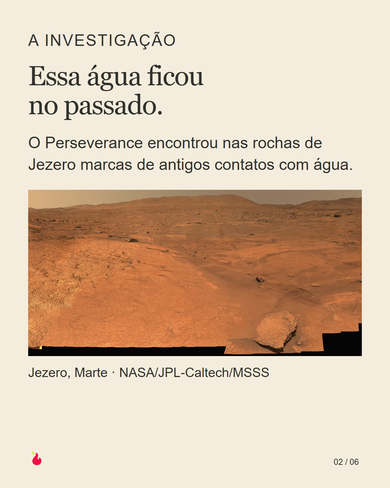
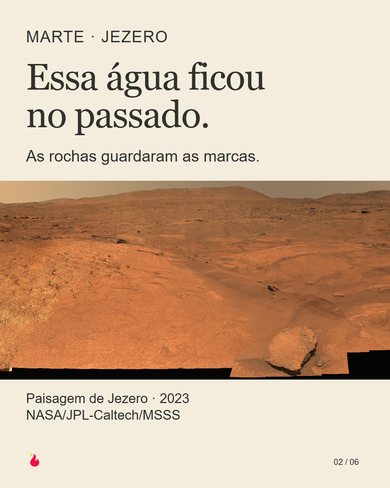
Refine editorial composition with distinct image and text functions

diff --git a/growth/cycles/031-mars/editorial.css b/growth/cycles/031-mars/editorial.css
@@ -1,0 +1,3 @@
+@import url(style.css);.slide{padding:72px 72px}.slide h2{font-size:92px;line-height:1.02}.eyebrow{font-size:30px;letter-spacing:2px;margin-bottom:32px}.foot{left:72px;right:72px;bottom:44px}.credit{font-size:30px!important;line-height:1.25!important}.photo{display:block;object-fit:cover}.document h2{font-size:102px}.document .landscape{position:absolute;left:0;top:410px;width:1080px;height:660px;object-fit:cover}.document .intro{max-width:850px}.document .caption{position:absolute;top:1110px;left:72px;width:930px}.trace{position:absolute;top:390px;left:90px;width:80px;height:645px}.step{position:absolute;left:210px;right:72px}.step .seq{font-size:32px;letter-spacing:2px;color:#BE1035}.step p{font:54px/1.15 Georgia;margin:10px 0}.step1{top:440px}.step2{top:655px}.step3{top:870px}.past .limit{position:absolute;top:1100px;left:72px;width:930px;font-size:42px}.cinema{background:#22211e;color:#f4edde}.cinema .hero{position:absolute;top:0;left:0;width:1080px;height:790px;object-fit:cover;object-position:65% center}.cinema .textzone{position:absolute;top:805px;left:72px;right:72px}.cinema h2{font-size:83px}.cinema p{font-size:42px}.archive .photo{width:936px;height:580px;margin-top:32px;object-fit:cover}.archive h2{font-size:90px}.archive .bottom{display:grid;grid-template-columns:1fr 1fr;gap:45px;margin-top:30px}.archive .bottom p{font-size:39px}.closing .image{position:absolute;left:0;top:730px;width:1080px;height:620px;object-fit:cover;object-position:center 82%}.closing h2{font-size:106px;max-width:940px}.closing .invitation{font-size:53px;line-height:1.15;max-width:850px;margin-top:45px}.closing .action{font-size:43px}.closing .foot{color:#f4edde}.closing{background:#f4edde}.cover .foot{color:#f4edde}.document .landscape{top:500px;height:550px}.document .caption{top:1080px}.cinema .hero{height:730px}.cinema .textzone{top:750px}
+
+.credit{font-size:37px!important}.closing .foot{top:660px;bottom:auto;color:#30302d}.concept-label{position:absolute;top:660px;left:72px;background:#22211e;color:#f4edde;padding:10px 18px;font-size:37px!important}.cinema .textzone{top:750px}

diff --git a/growth/cycles/031-mars/slide-05.html b/growth/cycles/031-mars/slide-05.html
@@ -1,1 +1,1 @@
-<!doctype html><html lang="pt-BR"><meta charset="utf-8"><title>Marte e batatas · 5</title><link rel="stylesheet" href="style.css"><main class="slide dark"><p class="eyebrow">Uma escala na Terra</p><h2>As batatas já<br>passaram pela NASA.</h2><p>Nos anos 1990, a NASA testou batatas em hidroponia.</p><svg class="diagram" viewBox="0 0 924 460" role="img" aria-label="Esquema de bandejas com batatas e circulação de solução nutritiva"><path d="M140 90H770M185 110V325H730V110" fill="none" stroke="#f4edde" stroke-width="7"/><path d="M186 278H730" stroke="#D7E25B" stroke-width="11"/><ellipse cx="355" cy="250" rx="70" ry="42" fill="#b78355"/><ellipse cx="550" cy="250" rx="65" ry="42" fill="#b78355"/><path d="M355 210V140m0 22q-80-60-30-74q52 9 30 74m195 48V140m0 22q65-65 28-76q-48 2-28 76" fill="#D7E25B" stroke="#D7E25B" stroke-width="6"/><path d="M730 325V382H185V325" fill="none" stroke="#D7E25B" stroke-width="5"/><path d="m400 370 22 12-22 12" stroke="#D7E25B" fill="none" stroke-width="5"/></svg><p class="small">Na Terra. A pesquisa até chamou a atenção da Frito-Lay.</p><p class="source">Fonte: NASA, arquivo de 2016.</p><footer class="foot"><img src="assets/flame.png" alt="Cereja Flamejante"><span>05 / 06</span></footer></main></html>
+<!doctype html><html lang="pt-BR"><meta charset="utf-8"><title>Marte e batatas · 5</title><link rel="stylesheet" href="editorial.css"><main class="slide archive"><p class="eyebrow">Arquivo · NASA · 1992</p><h2>A horta real<br>ficava na Terra.</h2><img class="photo" src="assets/nasa-potatoes-1992.jpg" alt="Cultivo real de batatas Norland na câmara de produção de biomassa da NASA"><div class="bottom"><p>Batatas cultivadas<br>em hidroponia.</p><p>A pesquisa até<br>interessou à Frito-Lay.</p></div><p class="credit">Foto: NASA · relato publicado em 2016</p><footer class="foot"><img src="assets/flame.png" alt="Cereja Flamejante"><span>05 / 06</span></footer></main></html>

diff --git a/growth/cycles/031-mars/slide-03.html b/growth/cycles/031-mars/slide-03.html
@@ -1,1 +1,1 @@
-<!doctype html><html lang="pt-BR"><meta charset="utf-8"><title>Marte e batatas · 3</title><link rel="stylesheet" href="style.css"><main class="slide "><p class="eyebrow">O que apareceu</p><h2>A água passou por ali.</h2><div class="big">3<span style="font:40px Arial"> vezes, pelo menos</span></div><div class="row"><span class="num">01</span><p>Água subterrânea deixou minerais.</p></div><div class="row"><span class="num">02</span><p>Outro contato pode vir do antigo lago.</p></div><div class="row"><span class="num">03</span><p>Depois, há sinais de água quente.</p></div><p class="small line">Sabemos a ordem. As datas ainda faltam.</p><footer class="foot"><img src="assets/flame.png" alt="Cereja Flamejante"><span>03 / 06</span></footer></main></html>
+<!doctype html><html lang="pt-BR"><meta charset="utf-8"><title>Marte e batatas · 3</title><link rel="stylesheet" href="editorial.css"><main class="slide past"><p class="eyebrow">O que as rochas contam</p><h2>Água por aqui.<br>Pelo menos 3 vezes.</h2><svg class="trace" viewBox="0 0 80 645" aria-hidden="true"><path d="M40 20C10 120 65 130 40 220S15 350 40 430S60 540 40 620" stroke="#BE1035" stroke-width="4" fill="none"/><g fill="#BE1035"><circle cx="40" cy="70" r="13"/><circle cx="38" cy="280" r="13"/><circle cx="40" cy="500" r="13"/></g></svg><div class="step step1"><span class="seq">01 · SUBSOLO</span><p>Água subterrânea<br>deixou minerais.</p></div><div class="step step2"><span class="seq">02 · ANTIGO LAGO?</span><p>Outro contato pode<br>vir do lago.</p></div><div class="step step3"><span class="seq">03 · CALOR</span><p>Depois, há sinais<br>de água quente.</p></div><p class="limit">Sabemos a ordem. As datas ainda faltam.</p><footer class="foot"><img src="assets/flame.png" alt="Cereja Flamejante"><span>03 / 06</span></footer></main></html>

diff --git a/growth/cycles/031-mars/slide-04.html b/growth/cycles/031-mars/slide-04.html
@@ -1,1 +1,1 @@
-<!doctype html><html lang="pt-BR"><meta charset="utf-8"><title>Marte e batatas · 4</title><link rel="stylesheet" href="style.css"><main class="slide"><p class="eyebrow">Corta para o cinema</p><h2>E a horta de<br>Perdido em Marte?</h2><p>No filme, um astronauta preso em Marte tenta sobreviver plantando batatas.</p><img src="assets/mars-greenhouse-concept.png" alt="Cena conceitual de cultivo em um habitat marciano" style="width:924px;height:440px;object-fit:cover;display:block;margin:28px 0 18px"><p class="source">Cena conceitual.</p><p class="small">Na vida real, a horta ainda exigiria um ambiente protegido.</p><footer class="foot"><img src="assets/flame.png" alt="Cereja Flamejante"><span>04 / 06</span></footer></main></html>
+<!doctype html><html lang="pt-BR"><meta charset="utf-8"><title>Marte e batatas · 4</title><link rel="stylesheet" href="editorial.css"><main class="slide cinema"><img class="hero" src="assets/mars-greenhouse-concept.png" alt="Cena conceitual de cultivo em um habitat marciano"><p class="concept-label">Cena conceitual</p><div class="textzone"><p class="eyebrow">A horta do filme</p><h2>Preso em Marte.<br>Batatas para sobreviver.</h2><p>A tentativa de sobreviver em<br><i>Perdido em Marte</i> (2015).</p></div><footer class="foot"><img src="assets/flame.png" alt="Cereja Flamejante"><span>04 / 06</span></footer></main></html>

diff --git a/growth/cycles/031-mars/slide-02.html b/growth/cycles/031-mars/slide-02.html
@@ -1,1 +1,1 @@
-<!doctype html><html lang="pt-BR"><meta charset="utf-8"><title>Marte e batatas · 2</title><link rel="stylesheet" href="style.css"><main class="slide "><p class="eyebrow">A investigação</p><h2>Essa água ficou<br>no passado.</h2><p>O Perseverance encontrou nas rochas de Jezero marcas de antigos contatos com água.</p><img src="assets/nasa-jezero-margin.jpg" alt="Panorama real da Margin Unit em Jezero, Marte" style="width:924px;height:460px;object-fit:cover;object-position:center;display:block;margin:40px 0 22px"><p class="source">Jezero, Marte · NASA/JPL-Caltech/MSSS</p><footer class="foot"><img src="assets/flame.png" alt="Cereja Flamejante"><span>02 / 06</span></footer></main></html>
+<!doctype html><html lang="pt-BR"><meta charset="utf-8"><title>Marte e batatas · 2</title><link rel="stylesheet" href="editorial.css"><main class="slide document"><p class="eyebrow">Marte · Jezero</p><h2>Essa água ficou<br>no passado.</h2><p class="intro">As rochas guardaram as marcas.</p><img class="landscape photo" src="assets/nasa-jezero-margin.jpg" alt="Panorama real da região Margin Unit em Jezero"><div class="caption"><p class="credit">Paisagem de Jezero · 2023<br>NASA/JPL-Caltech/MSSS</p></div><footer class="foot"><img src="assets/flame.png" alt="Cereja Flamejante"><span>02 / 06</span></footer></main></html>

diff --git a/growth/cycles/031-mars/slide-06.html b/growth/cycles/031-mars/slide-06.html
@@ -1,1 +1,1 @@
-<!doctype html><html lang="pt-BR"><meta charset="utf-8"><title>Marte e batatas · 6</title><link rel="stylesheet" href="style.css"><main class="slide exit"><p class="eyebrow">Cereja Flamejante</p><h2>Até onde vai<br>uma batata?</h2><p style="max-width:790px;margin-top:50px">Na Cereja Flamejante, uma descoberta puxa outra.</p><div class="line" style="margin-top:95px"><p style="font-size:56px"><b>Quer receber<br>a newsletter?</b></p><p class="small">Assine pelo link da bio</p></div><footer class="foot"><img src="assets/flame.png" alt="Cereja Flamejante"><span>06 / 06</span></footer></main></html>
+<!doctype html><html lang="pt-BR"><meta charset="utf-8"><title>Marte e batatas · 6</title><link rel="stylesheet" href="editorial.css"><main class="slide closing"><p class="eyebrow">Cereja Flamejante</p><h2>Uma descoberta<br>puxa outra.</h2><p class="invitation">Quer receber essas conexões<br>na sua caixa de entrada?</p><p class="action">Assine a newsletter pelo link da bio.</p><img class="image" src="assets/mars-potato.png" alt="A colagem de Marte e batata retorna no encerramento"><footer class="foot"><img src="assets/flame.png" alt="Cereja Flamejante"><span>06 / 06</span></footer></main></html>

diff --git a/growth/cycles/031-mars/packet.md b/growth/cycles/031-mars/packet.md
@@ -80,3 +80,6 @@ Novo ativo: assets/mars-greenhouse-concept.png, cena conceitual original inspira
 Revisão: textos das peças reduzidos; detalhes científicos preservados na legenda. CTA empático mantido.
 
 NASA: panorama Margin Unit, capturado de 08–16/10/2023, publicado na notícia em 21/09/2026. Crédito NASA/JPL-Caltech/MSSS. Origem: https://www.nasa.gov/solar-system/planets/mars/nasa-discovery-reveals-complex-water-systems-on-early-mars/ . Arquivo: assets/nasa-jezero-margin.jpg. Política: https://www.nasa.gov/nasa-brand-center/images-and-media/ . Uso informativo orgânico nesta peça, sem endosso ou logo; recorte central de apresentação, sem filtro de cor; não presumir extensão a anúncio pago. Consulta 05/10/2026.
+
+## Revisão de composição editorial
+Layouts específicos para paisagem documental, sequência relativa de episódios (sem escala temporal), cena narrativa, arquivo fotográfico e convite com retorno visual da batata. Foto assets/nasa-potatoes-1992.jpg: batatas Norland, Biomass Production Chamber, Hangar L, 1992. Crédito NASA, sem pessoas identificáveis. Origem https://www.nasa.gov/science-research/nasa-plant-researchers-explore-question-of-deep-space-food-crops/ . Uso informativo sob diretrizes NASA; recorte de apresentação, sem filtro de cor. Consulta 05/10/2026. Sem autorização presumida para anúncio pago. Esquema hidropônico removido.

diff --git a/growth/cycles/031-mars/review.md b/growth/cycles/031-mars/review.md
@@ -5,3 +5,5 @@ Conversão: explicitar newsletter no convite, remover CTA duplicado da legenda, 
 Direção visual: imagem NASA dá evidência concreta e melhora o ritmo do slide 2; manter cena conceitual identificada no filme.
 
 Aplicado: panorama NASA no slide 2; método de 185 alvos levado às fontes; rótulo miúdo retirado do esquema de hidroponia; convite final ampliado para 56 px e explicitando newsletter; legenda corrigida. Status: revisão humana pendente, não publicado. Não houve avaliação quantitativa de conversão; é hipótese para teste.
+
+Revisão de composição detalhada: especialistas de leitura e direção visual inspecionaram overview e versões de 390 px. Ajustados identificação de cena conceitual junto à imagem, créditos ampliados, contraste da assinatura no encerramento, paisagem identificada como contextual, não como prova visual direta da água. Foto histórica substitui diagrama genérico.
